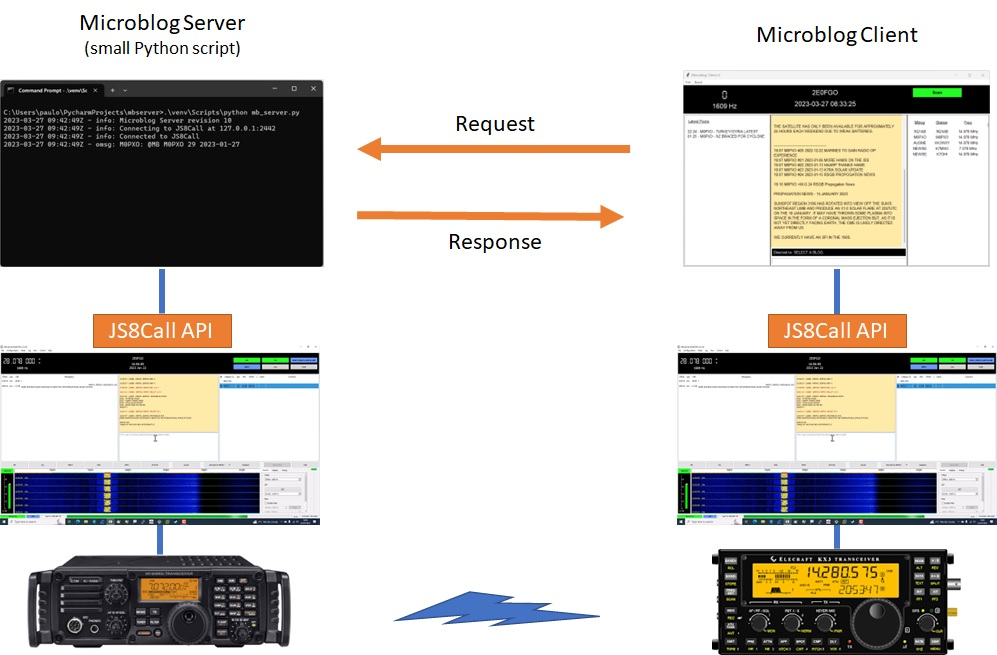
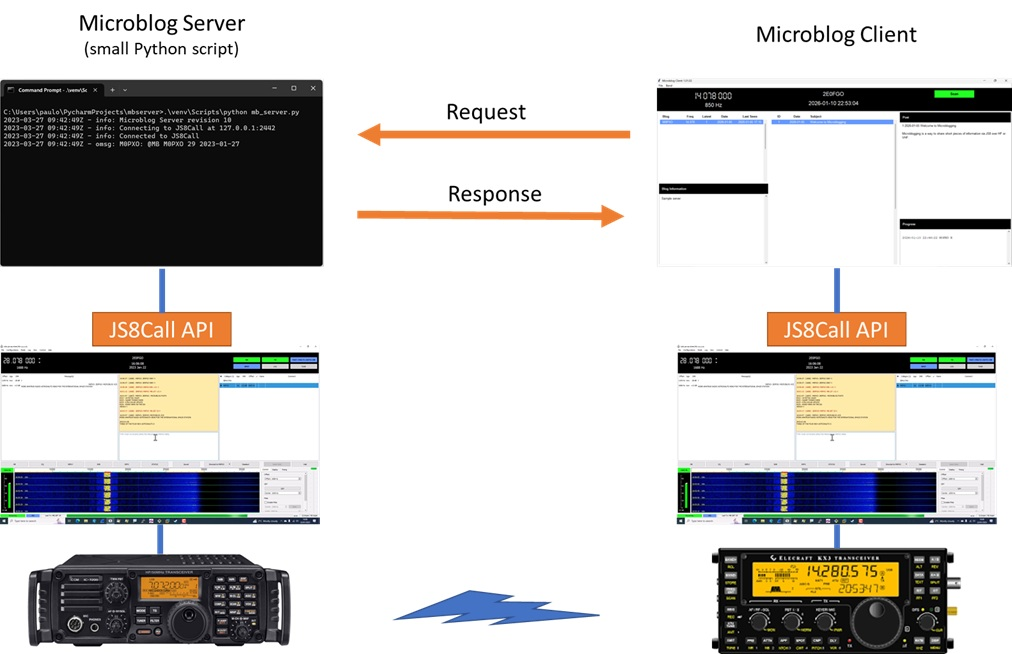
Rewrite of the User Guide
Rewritten to match the new-look version.

diff --git a/docs/UserGuide.html b/docs/UserGuide.html
@@ -87,84 +87,71 @@
         <p>Finally we have the title of the post.</p>
         <p>The challenge for an operator running a server is to keep the post title and content as concise as
             possible to minimise transmission time.</p>
+
+        <h3>Summary</h3>
+        <p>To summarise:</p>
+        <ul>
+            <li>A blog is made available by an operator running MbServer and JS8Call on a computer connected to their
+                transceiver</li>
+            <li>A blog contains posts</li>
+            <li>A post has a Post ID, Post Date, Title and Body (content)</li>
+            <li>An MbClient user can retrieve listing information which comprises Post ID, Post Date and Title</li>
+            <li>An MbClient user can retrieve content information which comprises Post ID and Body</li>
+            <li>Any retrieved information is kept in a cache (a database) so it can be instantly viewed at any time</li>
+        </ul>
+
         <h2 id="function">MbClient Functionality</h2>
         <p>The MbClient app has the following capabilities:</p>
         <ul>
-            <li><b>Listing</b> - list the posts of a blog providing Post ID and Post Title</li>
-            <li><b>Extended Listing</b> - list the posts of a blog providing Post ID, Post Date and Post Title</li>
-            <li><b>Get</b> - retrieve the contents of a post from the server and display it</li>
-            <li><b>Latest Posts</b> - maintain and display a list of the most recent posts sent by a microblog server
-                to any users</li>
             <li><b>Blog List</b> - maintain a list of available blogs by monitoring @MB Announcement messages*</li>
-            <li><b>Caching</b> - save any retrieved listings or posts in a database for instant display in the future</li>
-            <li><b>Promiscuous Caching</b> - save listings and posts sent to other users for instant display in the future</li>
+            <li><b>Post List</b> - show a list the posts of a blog providing Post ID, Post Date and Post Title</li>
+            <li><b>Post Content</b> - show the contents of a post from the server and display it</li>
+            <li><b>Caching</b> - save any retrieved listings or posts in a database for instant display in the
+                future</li>
+            <li><b>Promiscuous Caching</b> - save listings and posts sent to other users for instant display by you
+                in the future</li>
         </ul>
         <p style="font-size: 80%">* @MB Announcement - Each microblog server periodically sends to the JS8 group @MB
             an announcement message containing the blog name, latest Post ID and latest Post Date</p>
-        <h2 id="interface">Interface Layout</h2>
+        <h2 id="interface">Using MbClient</h2>
         <p><img src="images/InterfaceLayout.jpg" width="640" /></p>
-        <p>The user interface for the MbClient has five areas:</p>
+        <p>Before we look at how you get MbClient to do something (perform an action), let's look at
+            the layout of the display. The window has five areas:</p>
         <ul>
             <li><b>Header</b> - this area displays the rig frequency setting, the JS8Call offset, the client call sign,
                 the GMT (UTC) date and time, and a Scan button</li>
-            <li><b>Latest Posts</b> - this area displays the latest post details from any blog server to any user, and is
-                gathered by monitoring JS8 messages</li>
-            <li><b>QSO Box</b> - this area displays retreived listings and posts, together with timstamped progress messages
-                that indicate what the app is doing at a point in time</li>
-            <li><b>Command Line Interface</b> - this area displays the name of the blog you are currently interacting with
-                and provides a dialogue box for you to enter commands</li>
-            <li><b>Blog List</b> - this area lists the blogs that have been seen and should be available to you</li>
+            <li><b>Blog List</b> - this area lists the blogs that have been seen and should be available to you
+                - the currently selected blog is highlighted in blue</li>
+            <li><b>Blog Info</b> - this area shows information about the selected blog if it's available in
+                the cache</li>
+            <li><b>Post List</b> - this area lists all the posts we have in the cache for the selected blog
+                - the currently selected post is highlighted in blue</li>
+            <li><b>Post Content</b> - this area displays the content of the selected post, if it's available in
+                the cache</li>
+            <li><b>Progress Info</b> - this area shows the flow of commands and responses in real time, so
+                you know something is happening when you perform an action</li>
         </ul>
-        <p>Let's look at three typical ways you would use this interface.</p>
-
-        <h3>Scenario 1 - List the latest posts available from a blog</h3>
-        <p align="center"><img src="images/query_cmd.jpg" width="160" /></p>
-        <p>To request information from a microblog blog, we must first select the blog from the Blog List,
-            and we can only do that if our station has seen an announcement for that blog.  To avoid having to
-            wait for the announcement, we can request all servers announce using the (Q)uery command.</p>
-        <p align="center"><img src="images/blog_updated_by_query.jpg" width="640" /></p>
-        <p>Simply enter the letter Q into the Command Line Interface box.  The Blog List will update with the
-            blogs that receive the query.  Remember, this may take a minute or two to complete. It's not necessary
-            to select a blog prior to using the Q command. If you have selected a blog, it's ignored when sending
-            the Query command, since the command is sent to the @MB group.</p>
-
-        <h3>Scenario 2 - List the latest posts available from a blog</h3>
-        <p align="center"><img src="images/SelectM0PXO.jpg" width="320" /></p>
-        <p>We start by clicking on a blog in the Blog List.  Above we have chosen the M0PXO blog.</p>
-        <p align="center"><img src="images/ListingCommand.jpg" width="120" /></p>
-        <p>Next we enter the L command in the Command Line Interface (CLI) box and hit Enter.</p>
-        <p align="center"><img src="images/ListingProgress.jpg" width="480" /></p>
-        <p>The command is echoed in the QSO Box, and we see a progress message that shows that the app
-            has asked the server for a list of the most recent posts.</p>
-        <p align="center"><img src="images/ListingDisplayed.jpg" width="480" /></p>
-        <p>The listing is retrieved from the microblog server and displayed in the QSO Box.</p>
-
-        <h3>Scenario 3 - View a particular post</h3>
-        <p align="center"><img src="images/GetCommand.jpg" width="160" /></p>
-        <p>With the M0PXO blog still selected, we enter the G command in the CLI box and hit Enter.</p>
-        <p align="center"><img src="images/GetProgress.jpg" width="480" /></p>
-        <p>The command is echoed in the QSO Box, and we see a progress message that shows that the app
-            has asked the server for the post content.</p>
-        <p align="center"><img src="images/GetDisplayed.jpg" width="480" /></p>
-        <p>The post content is retrieved from the server and displayed in the QSO Box.</p>
-
-        <h3>Scenario 4 - Get a Latest Post</h3>
-        <p align="center"><img src="images/ClickLatestPost.jpg" width="280" /></p>
-        <p>Click on a post in the Latest Posts area.</p>
-        <p align="center"><img src="images/LatestPostProgress.jpg" width="480" /></p>
-        <p>A GET (G) command appears in the QSO Box, and the correct blog is selected.  This may also cause the
-            rig frequency in the Header area to change if the Latest Post was heard on another frequency.</p>
-        <p align="center"><img src="images/LatestDisplayed.jpg" width="480" /></p>
-        <p>The post content is retrieved from the server and displayed in the QSO Box.</p>
-
-        <h2 id="commands">Commands</h2>
-        <p>These are the commands supported by the Command Line Interface</p>
+        <p>Navigating around the display is very simple:</p>
         <ul>
-            <li><b>L</b> - List the Post ID and Post Title of the most recent blog posts</li>
-            <li><b>E</b> - List the Post ID, Post Date and Post Title of the most recent blog posts</li>
-            <li><b>G</b> - Get the contents of a post from the server and display it</li>
-            <li><b>R</b> - Refresh the contents of a post; useful if the post was received with missing sections</li>
+            <li><b>Select a blog</b> - Click on the blog in the Blog List.</li>
+            <li><b>Select a post</b> - Click on the post in the Post List.</li>
+            <li><b>Get the content of a post</b> - After you select a post, if the content is not available
+                in the Post area, you can:
+                <ul>
+                    <li>Click on the prompt in the Post area*</li>
+                    <li>Right-click on the post in the Post List and choose <em>Refresh content</em></li>
+                </ul>
+            </li>
+            <li><b>Get the latest posts for a blog</b> - Right-click on the blog in the Blog List and
+                choose <em>Get recent</em></li>
+            <li><b>Get missing posts</b> - Right-click on the first post after the missing posts
+                and choose <em>Get more posts</em></li>
+            <li><b>Get the latest posts for a blog</b> - Right-click on the blog in the Blog List and
+                choose <em>Get info</em></li>
         </ul>
+        <p>* - The wording of the prompt is, "We don't have the content for this post in the cache.
+            Click here to get it from the server."</p>
+
 
         <h2 id="settings">Settings</h2>
         <p>As an operator, we can change several parameters through the <i>File -> Settings</i> menu.</p>
@@ -176,19 +163,14 @@
         <p><b>Font Size:</b> The base font size for the text displayed in the user interface.  Some text will be
             in a larger font than specified here (for example, header text) but this will scale with the Font Size
             setting. Default - 10</p>
-        <p><b>Max Latest:</b> The maximum number of posts that will be listed in the Latest Posts area.  These are
-            listed in reverse datetime order and so older posts will eventually roll off the bottom of the list.
-            Even so, the older posts will remain in the database and so can continue to be used for cache retrieval.
-            Default - 30</p>
-        <p><b>Max QSOs:</b> The maximum number of posts that will be listed in the QSO Box.  These are
-            listed in datetime order and so older posts will eventually roll off the top of the list.
-            Even so, the older posts will remain in the database and so can continue to be used for cache retrieval.
-            Default - 50</p>
         <p><b>Max Blogs:</b> The maximum number of blogs that will be listed in the Blog List area.  These are
             listed in the order in which they were last seen; the latest seen blogs being at the top of the list.
             Default - 30</p>
-        <p><b>Max Listing:</b> The maximum number Listing or Extended Listing items that will be retrieved by an L or
-            E command.
+        <p><b>Max Posts:</b> The maximum number of posts that will be listed in the Post List.  These are
+            listed in reverse datetime order and so older posts will eventually roll off the bottom of the list.
+            Default - 50</p>
+        <p><b>Max Listing:</b> The maximum number posts retrived each time you use <em>Get recent</em>
+            or <em>Get more</em>.
             Default - 5</p>
         <p><b>Use GMT for Clock and Log:</b> Check this option if you want the clock in the user interface to show
             GMT (UTC) time.  Uncheck this option if you want the clock to show your local time.
@@ -196,23 +178,8 @@
             Default - Checked</p>
         <p>A change the settings will only take effect after restarting the MbClient.</p>
         <h2 id="tips">Tips and Tricks</h2>
-        <h3>Getting the Latest Posts</h3>
-        <p>The L command without any qualifiers will get you a list of the latest posts on a blog.  You'll notice
-        that the client sends a list of Post IDs to the server to get the list.</p>
-        <p align="center"><img src="images/LatestCommand.jpg" width="480" /></p>
-        <p>You may wonder, how is it that the client knows that this is the list of the latest posts?  The client uses
-            the Latest Post ID value in the Blog List to determine the list of the latest posts.</p>
-        <p>There is an issue here.  Maybe we missed the last @MB Announcement for the blog and so the Latest Post ID
-            value is out of date.  We may suspect there are later posts, and we don't want to wait for the next
-            announcement.  We can force a retrieval of later posts  by simply sending a command specifying a later
-            Post ID; e.g. L 30.  If there is no post 30 the server will just return
-            <i>NO POST FOUND</i>.</p>
-        <p>You may wonder why the client functions in this way; why not just send an L command (with no Post IDs)
-            to the server to get a full list of the latest posts?</p>
-        <p>Remember our objective to spend the least amount of time sending
-            requests and getting responses.  The command above shows us requesting listings for posts 25, 26, 27,
-            28 and 29.  Say we already had listings for posts 25 through 27 in the cache.  It would be faster to
-            pull those details from the cache and just send a request to the server for posts 28 and 29.</p>
+        <h3>To be completed</h3>
+        <p>To be completed.</p>
     </div>
 </body>
 </html>
